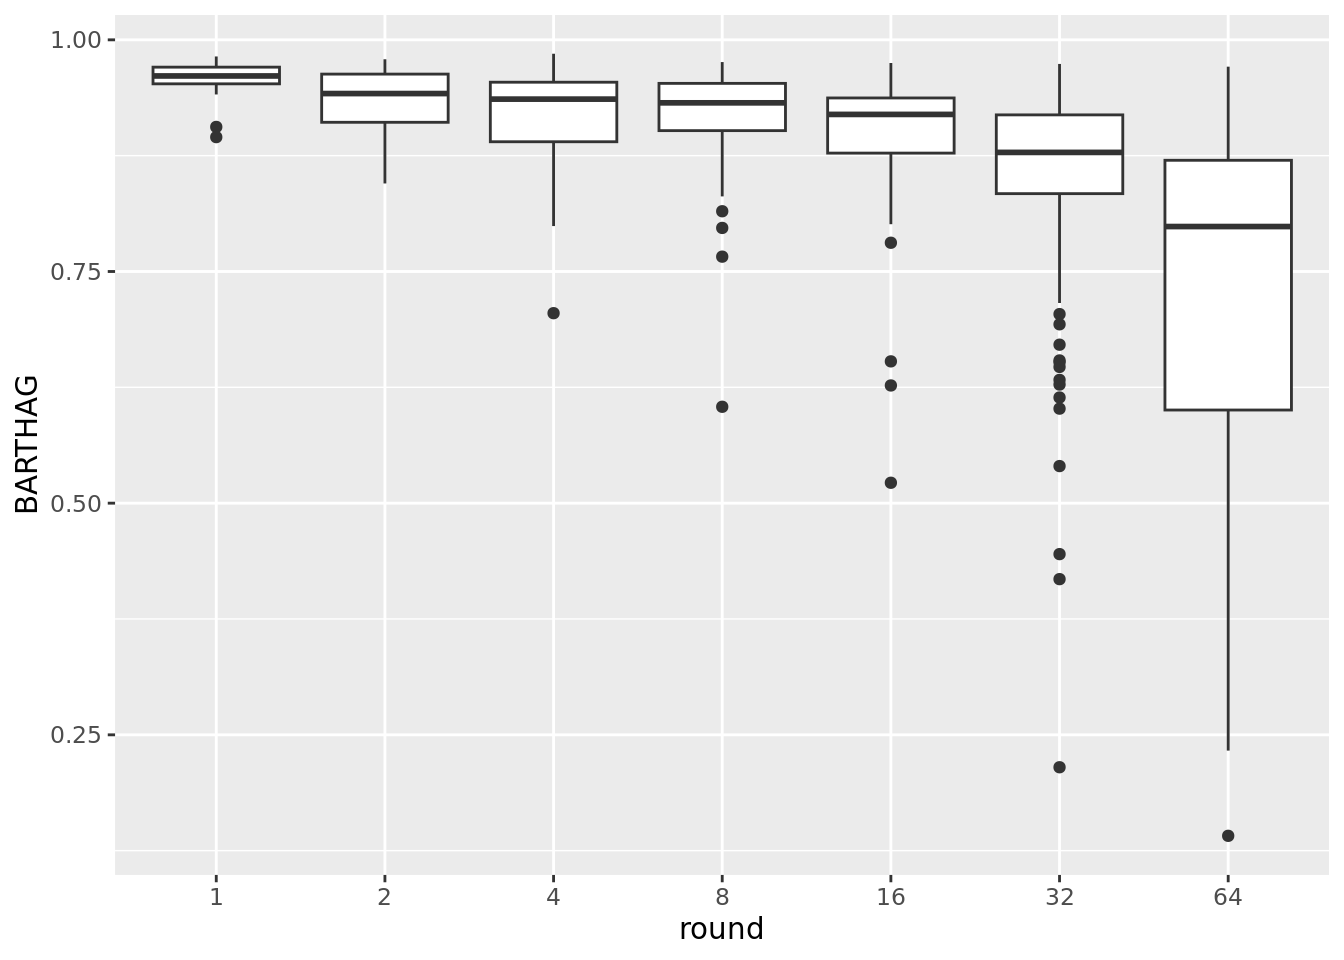
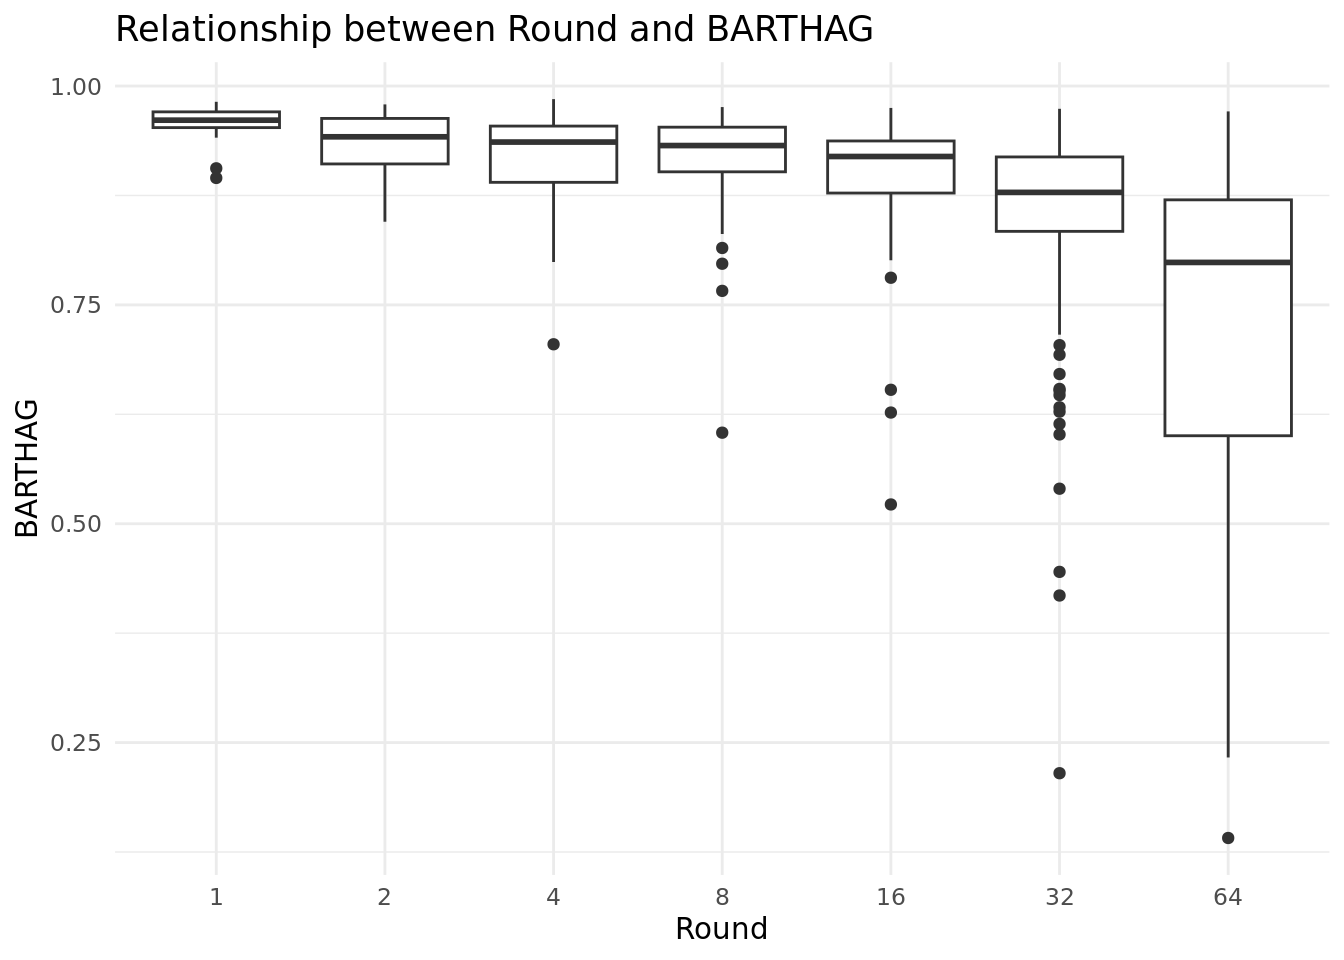
Added labels

diff --git a/docs/report.html b/docs/report.html
@@ -263,7 +263,7 @@ code span.wa { color: #60a0b0; font-weight: bold; font-style: italic; } /* Warni
 ✖ dplyr::lag()      masks stats::lag()
 ✖ yardstick::spec() masks readr::spec()
 ✖ recipes::step()   masks stats::step()
-• Use suppressPackageStartupMessages() to eliminate package startup messages</code></pre>
+• Use tidymodels_prefer() to resolve common conflicts.</code></pre>
 </div>
 </div>
 <div class="cell">
@@ -348,7 +348,11 @@ $ points_per_poss_def   &lt;dbl&gt; 0.922, 0.872, 0.963, 0.974, 0.981, 1.000, 0.
 <div class="sourceCode cell-code" id="cb11"><pre class="sourceCode r code-with-copy"><code class="sourceCode r"><span id="cb11-1"><a href="#cb11-1" aria-hidden="true" tabindex="-1"></a>march_madness <span class="sc">|&gt;</span> </span>
 <span id="cb11-2"><a href="#cb11-2" aria-hidden="true" tabindex="-1"></a>  <span class="fu">mutate</span>(<span class="at">round =</span> <span class="fu">as.factor</span>(round)) <span class="sc">|&gt;</span></span>
 <span id="cb11-3"><a href="#cb11-3" aria-hidden="true" tabindex="-1"></a>  <span class="fu">ggplot</span>(<span class="fu">aes</span>(<span class="at">x =</span> round, <span class="at">y =</span> BARTHAG)) <span class="sc">+</span></span>
-<span id="cb11-4"><a href="#cb11-4" aria-hidden="true" tabindex="-1"></a>  <span class="fu">geom_boxplot</span>()</span></code><button title="Copy to Clipboard" class="code-copy-button"><i class="bi"></i></button></pre></div>
+<span id="cb11-4"><a href="#cb11-4" aria-hidden="true" tabindex="-1"></a>  <span class="fu">geom_boxplot</span>() <span class="sc">+</span></span>
+<span id="cb11-5"><a href="#cb11-5" aria-hidden="true" tabindex="-1"></a>  <span class="fu">labs</span>(<span class="at">title =</span> <span class="st">"Relationship between Round and BARTHAG"</span>,</span>
+<span id="cb11-6"><a href="#cb11-6" aria-hidden="true" tabindex="-1"></a>         <span class="at">x =</span> <span class="st">"Round"</span>,</span>
+<span id="cb11-7"><a href="#cb11-7" aria-hidden="true" tabindex="-1"></a>         <span class="at">y =</span> <span class="st">"BARTHAG"</span>) <span class="sc">+</span></span>
+<span id="cb11-8"><a href="#cb11-8" aria-hidden="true" tabindex="-1"></a>  <span class="fu">theme_minimal</span>()</span></code><button title="Copy to Clipboard" class="code-copy-button"><i class="bi"></i></button></pre></div>
 <div class="cell-output-display">
 <p><img src="report_files/figure-html/model-f-boxplot-1.png" class="img-fluid" width="672"></p>
 </div>
@@ -413,7 +417,11 @@ $ points_per_poss_def   &lt;dbl&gt; 0.922, 0.872, 0.963, 0.974, 0.981, 1.000, 0.
 <div class="sourceCode cell-code" id="cb19"><pre class="sourceCode r code-with-copy"><code class="sourceCode r"><span id="cb19-1"><a href="#cb19-1" aria-hidden="true" tabindex="-1"></a>march_madness <span class="sc">|&gt;</span> </span>
 <span id="cb19-2"><a href="#cb19-2" aria-hidden="true" tabindex="-1"></a>  <span class="fu">mutate</span>(<span class="at">round =</span> <span class="fu">as.factor</span>(round)) <span class="sc">|&gt;</span> </span>
 <span id="cb19-3"><a href="#cb19-3" aria-hidden="true" tabindex="-1"></a>  <span class="fu">ggplot</span>(<span class="fu">aes</span>(<span class="at">x =</span> round, <span class="at">y =</span> b_adj_eff)) <span class="sc">+</span></span>
-<span id="cb19-4"><a href="#cb19-4" aria-hidden="true" tabindex="-1"></a>  <span class="fu">geom_boxplot</span>()</span></code><button title="Copy to Clipboard" class="code-copy-button"><i class="bi"></i></button></pre></div>
+<span id="cb19-4"><a href="#cb19-4" aria-hidden="true" tabindex="-1"></a>  <span class="fu">geom_boxplot</span>() <span class="sc">+</span></span>
+<span id="cb19-5"><a href="#cb19-5" aria-hidden="true" tabindex="-1"></a>  <span class="fu">labs</span>(<span class="at">title =</span> <span class="st">"Relationship between Round and Barttorvik Adjusted Efficiency"</span>,</span>
+<span id="cb19-6"><a href="#cb19-6" aria-hidden="true" tabindex="-1"></a>         <span class="at">x =</span> <span class="st">"Round"</span>,</span>
+<span id="cb19-7"><a href="#cb19-7" aria-hidden="true" tabindex="-1"></a>         <span class="at">y =</span> <span class="st">"Barttorvik Adjusted Efficiency"</span>) <span class="sc">+</span></span>
+<span id="cb19-8"><a href="#cb19-8" aria-hidden="true" tabindex="-1"></a>  <span class="fu">theme_minimal</span>()</span></code><button title="Copy to Clipboard" class="code-copy-button"><i class="bi"></i></button></pre></div>
 <div class="cell-output-display">
 <p><img src="report_files/figure-html/model-m-boxplot-1.png" class="img-fluid" width="672"></p>
 </div>
@@ -478,7 +486,11 @@ $ points_per_poss_def   &lt;dbl&gt; 0.922, 0.872, 0.963, 0.974, 0.981, 1.000, 0.
 <div class="sourceCode cell-code" id="cb27"><pre class="sourceCode r code-with-copy"><code class="sourceCode r"><span id="cb27-1"><a href="#cb27-1" aria-hidden="true" tabindex="-1"></a>march_madness <span class="sc">|&gt;</span> </span>
 <span id="cb27-2"><a href="#cb27-2" aria-hidden="true" tabindex="-1"></a>  <span class="fu">mutate</span>(<span class="at">round =</span> <span class="fu">as.factor</span>(round)) <span class="sc">|&gt;</span> </span>
 <span id="cb27-3"><a href="#cb27-3" aria-hidden="true" tabindex="-1"></a>  <span class="fu">ggplot</span>(<span class="fu">aes</span>(<span class="at">x =</span> round, <span class="at">y =</span> wins_above_bubble)) <span class="sc">+</span></span>
-<span id="cb27-4"><a href="#cb27-4" aria-hidden="true" tabindex="-1"></a>  <span class="fu">geom_boxplot</span>()</span></code><button title="Copy to Clipboard" class="code-copy-button"><i class="bi"></i></button></pre></div>
+<span id="cb27-4"><a href="#cb27-4" aria-hidden="true" tabindex="-1"></a>  <span class="fu">geom_boxplot</span>() <span class="sc">+</span></span>
+<span id="cb27-5"><a href="#cb27-5" aria-hidden="true" tabindex="-1"></a>  <span class="fu">labs</span>(<span class="at">title =</span> <span class="st">"Relationship between Round and Wins Above Bubble"</span>,</span>
+<span id="cb27-6"><a href="#cb27-6" aria-hidden="true" tabindex="-1"></a>         <span class="at">x =</span> <span class="st">"Round"</span>,</span>
+<span id="cb27-7"><a href="#cb27-7" aria-hidden="true" tabindex="-1"></a>         <span class="at">y =</span> <span class="st">"Wins Above Bubble"</span>) <span class="sc">+</span></span>
+<span id="cb27-8"><a href="#cb27-8" aria-hidden="true" tabindex="-1"></a>  <span class="fu">theme_minimal</span>()</span></code><button title="Copy to Clipboard" class="code-copy-button"><i class="bi"></i></button></pre></div>
 <div class="cell-output-display">
 <p><img src="report_files/figure-html/model-w-boxplot-1.png" class="img-fluid" width="672"></p>
 </div>
